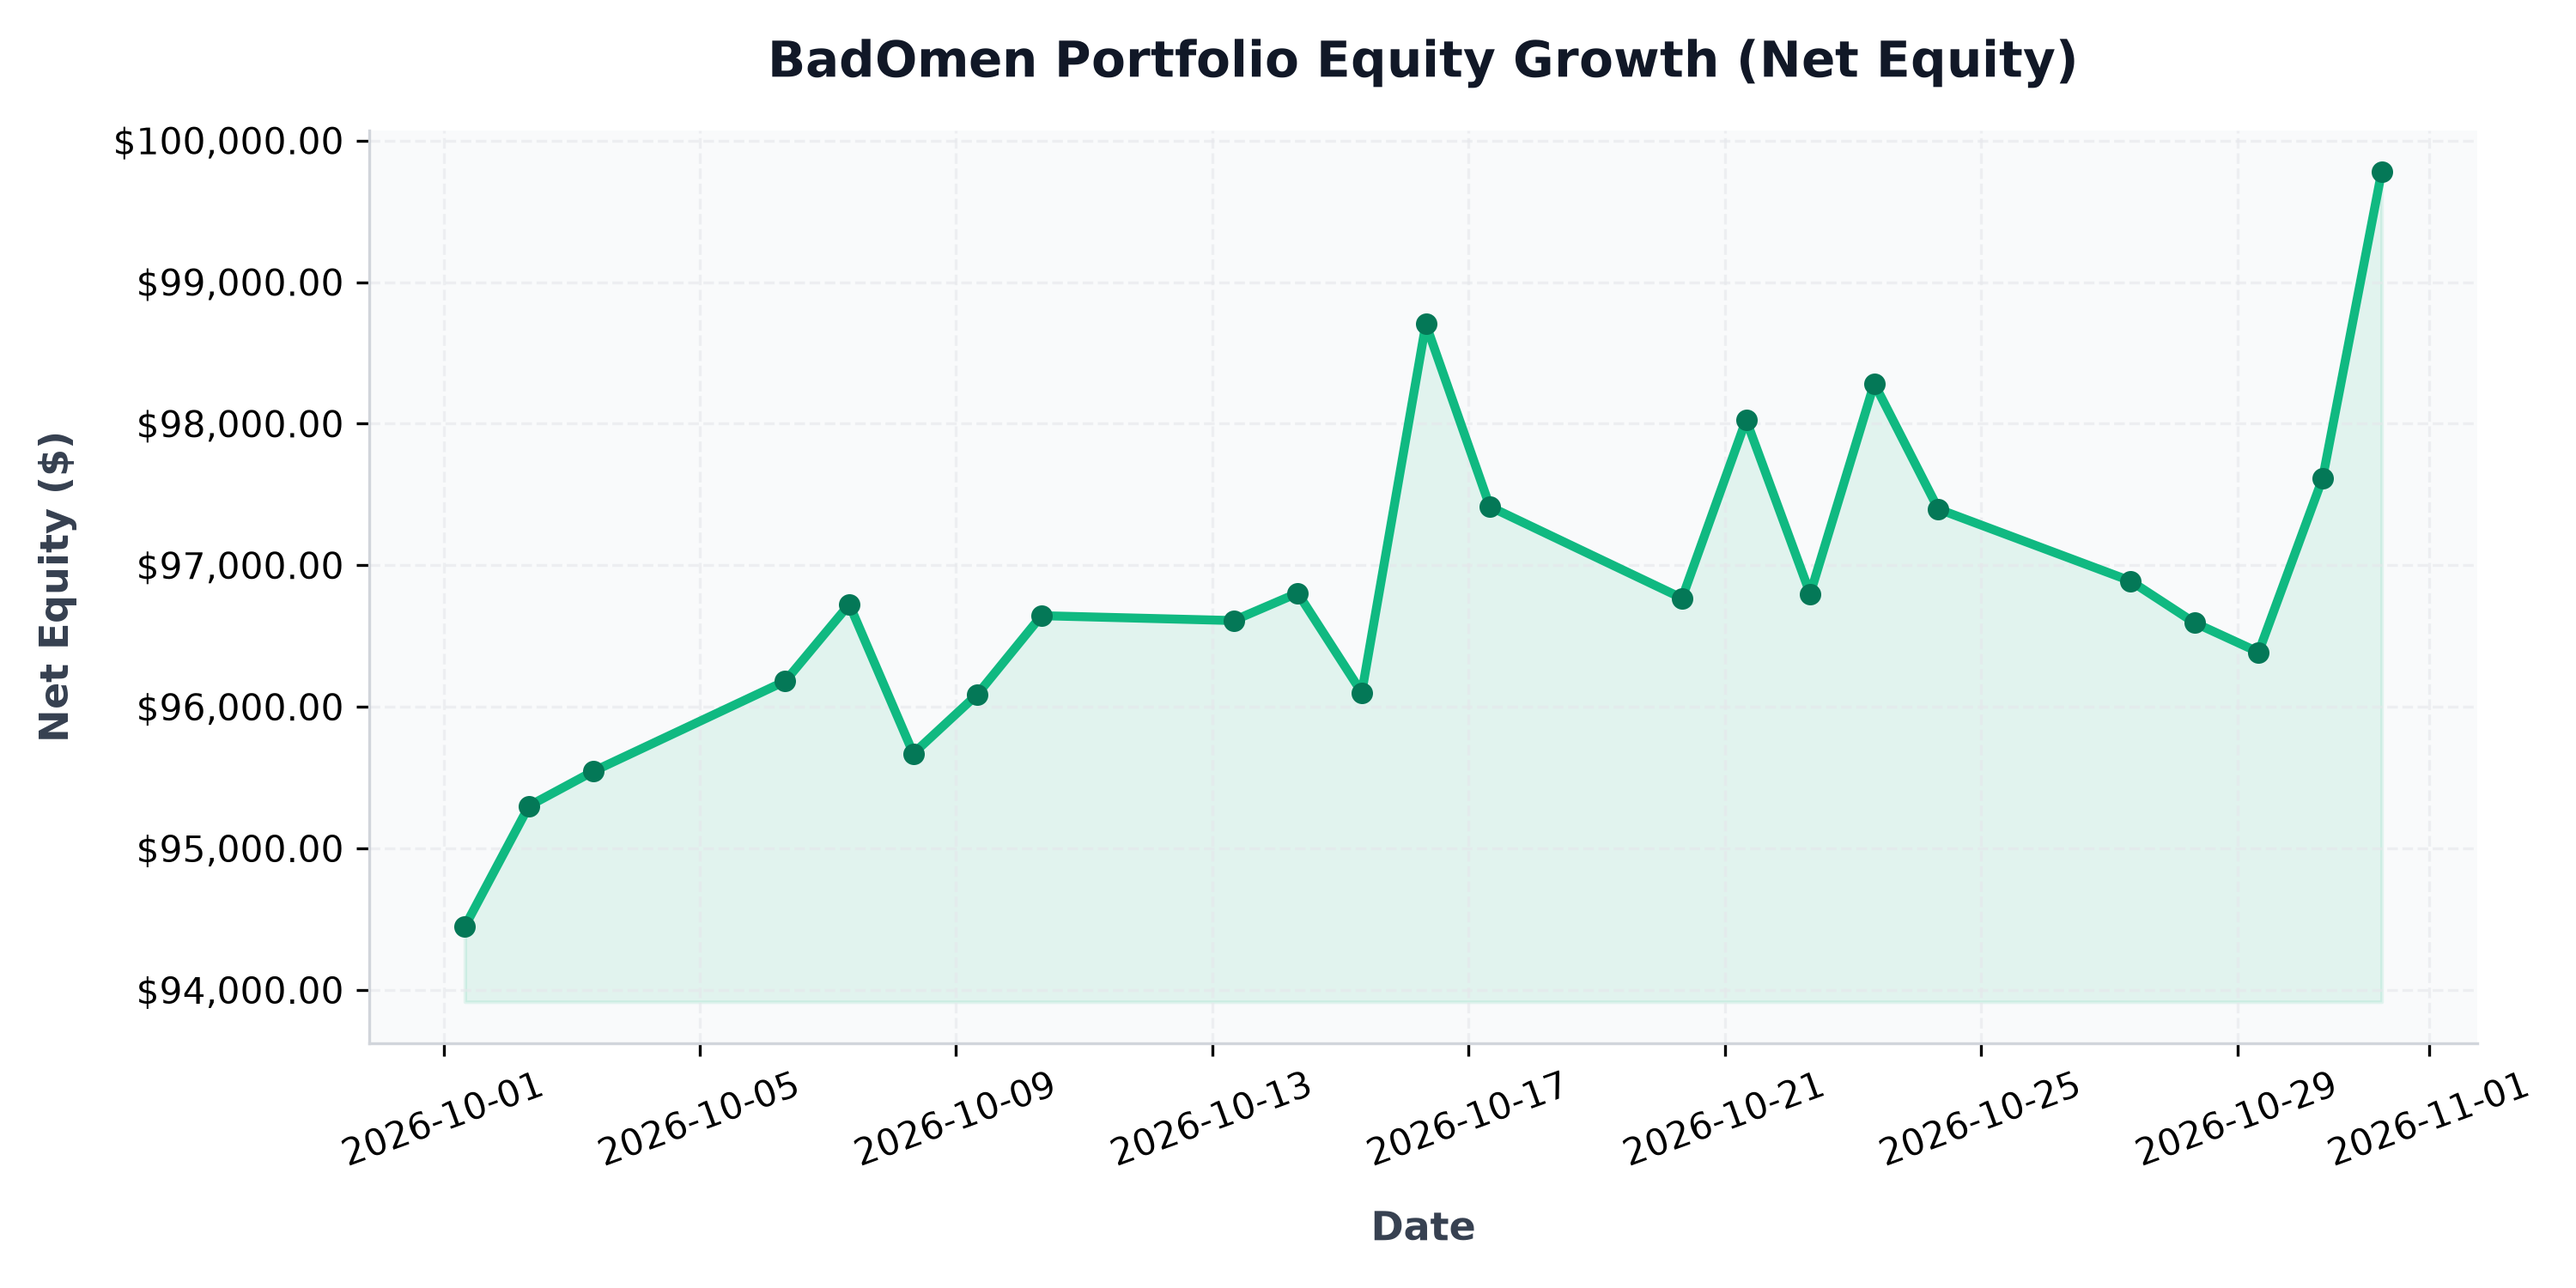
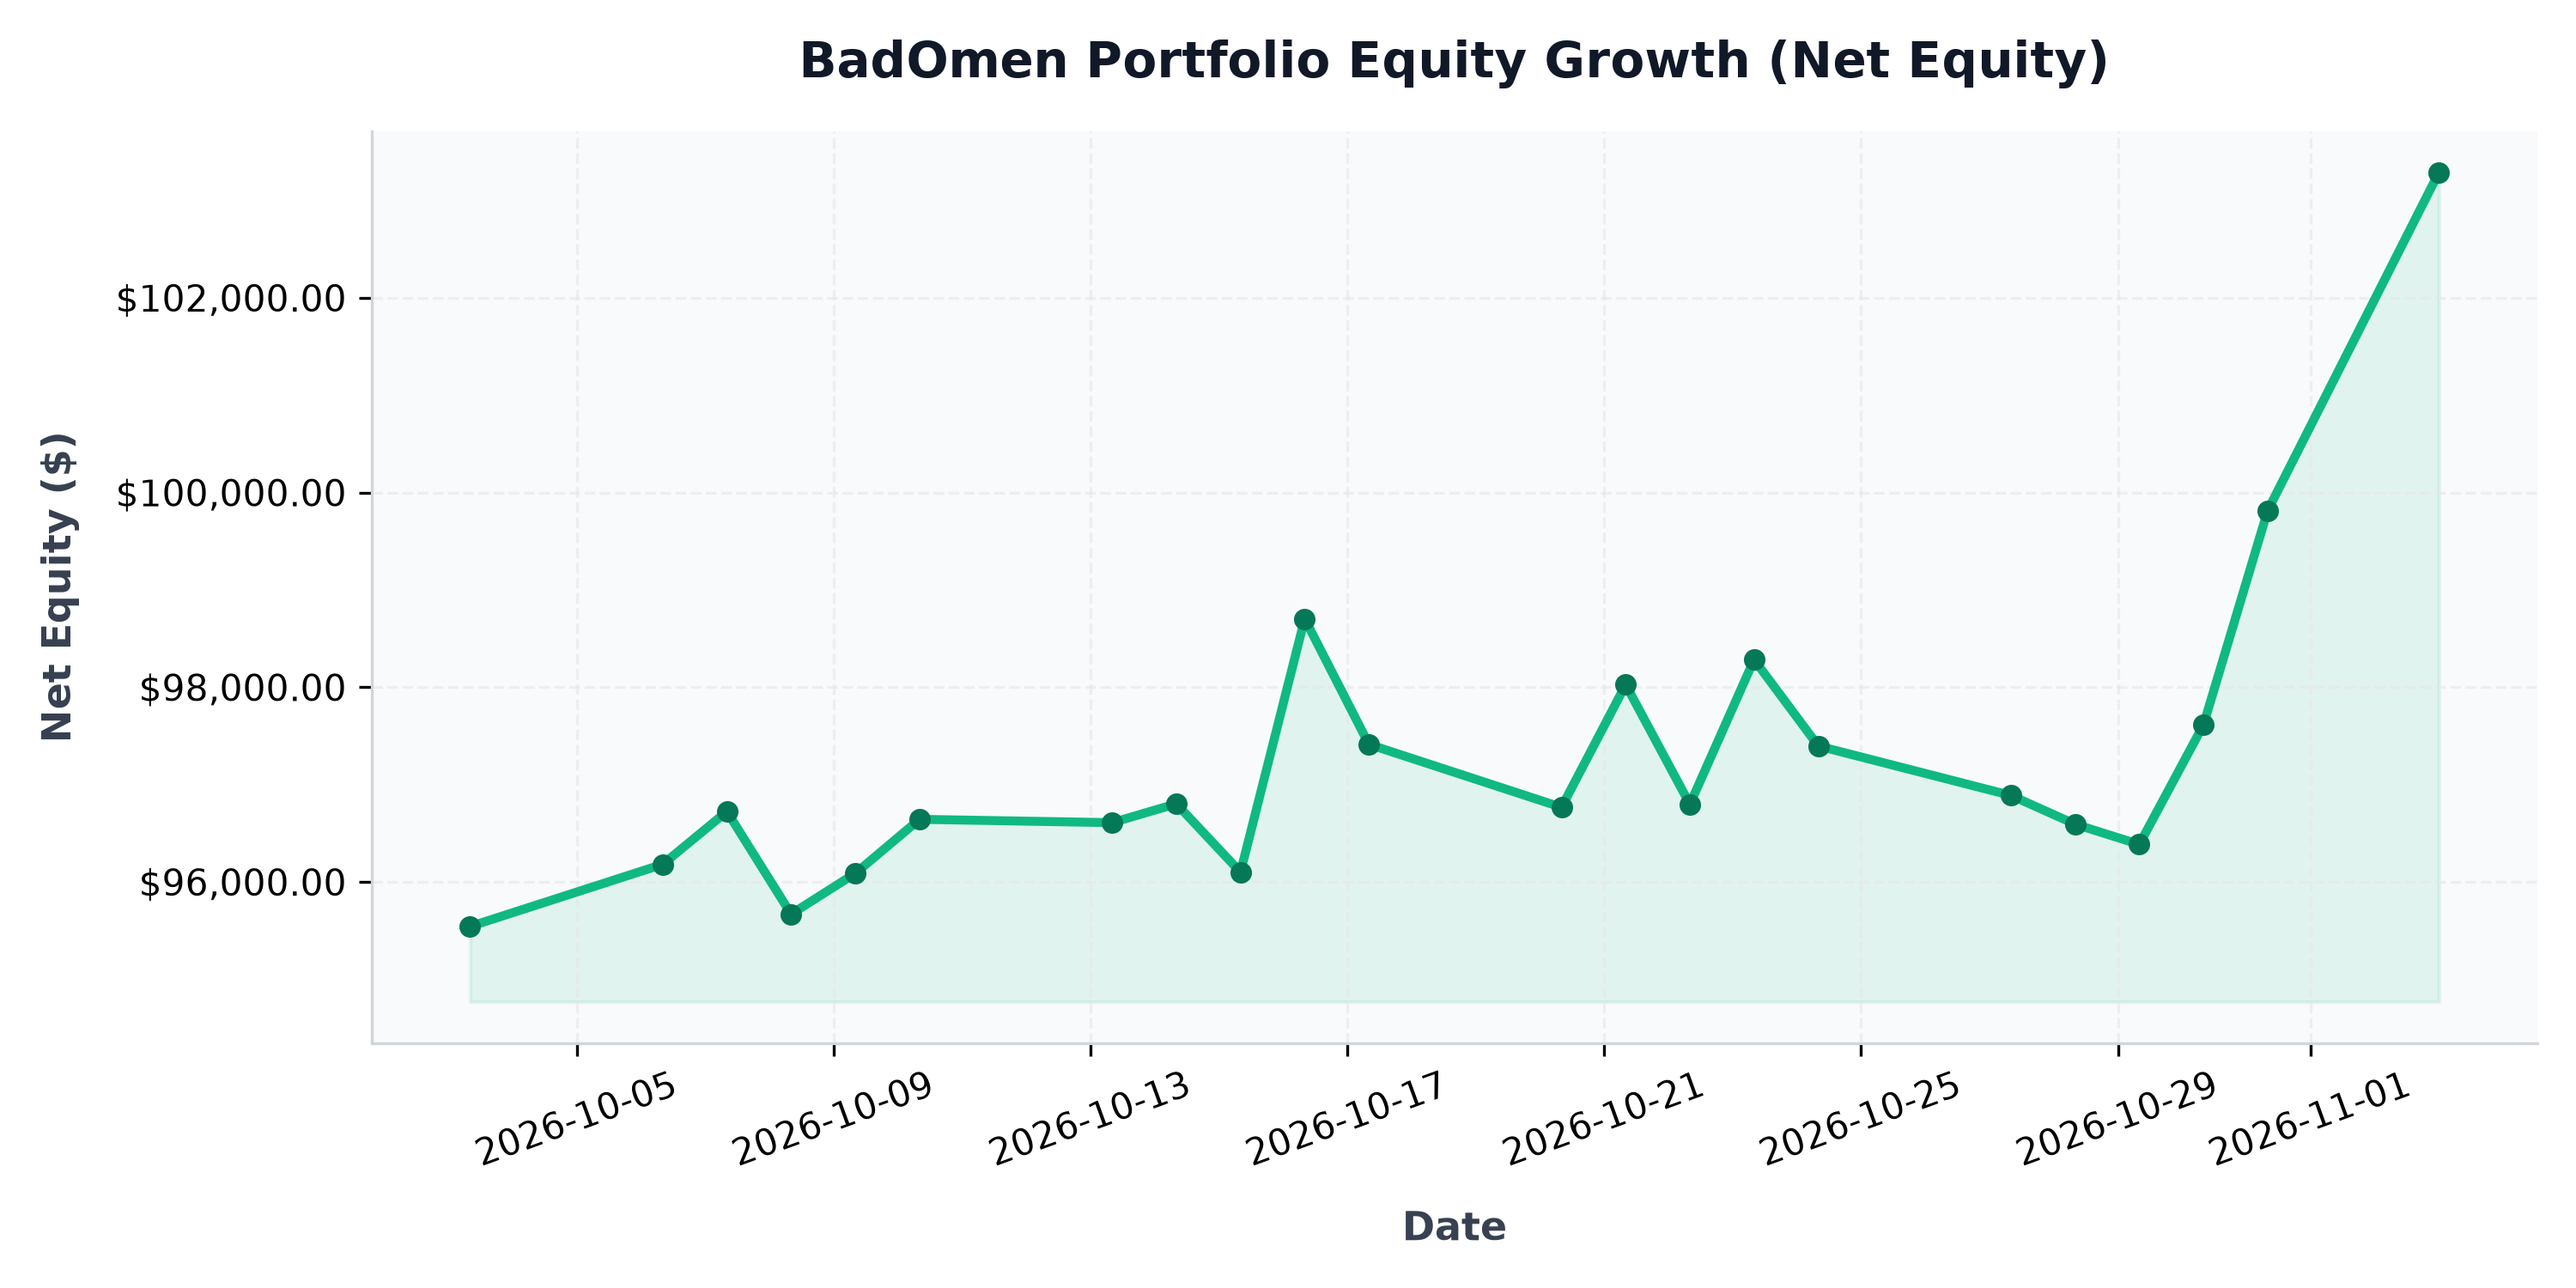
auto: daily portfolio status update - 2026-11-03 00:00:13

diff --git a/src/content/posts/portfolio-performance.md b/src/content/posts/portfolio-performance.md
@@ -1,6 +1,6 @@
 ---
 title: "BadOmen Algorithmic Portfolio Performance & PnL Report"
-pubDatetime: 2026-10-31T06:05:13.361802+08:00
+pubDatetime: 2026-11-03T00:00:13.033720+08:00
 description: "Live performance metrics, active holdings, and historic equity curve for the BadOmen automated paper trading portfolio."
 featured: true
 draft: false
@@ -16,11 +16,11 @@ Welcome to the live performance dashboard for **BadOmen**, our automated algorit
 ## 📊 Portfolio Summary
 | Performance Metric | Value | description |
 | :--- | :--- | :--- |
-| **Net Portfolio Equity** | **$99,778.45** | Total current liquidation value of cash and stock holdings |
-| **Total Unrealized P&L** | 🔴 **$-1,318.28** (-1.30%) | Total return of current open holdings |
+| **Net Portfolio Equity** | **$103,288.17** | Total current liquidation value of cash and stock holdings |
+| **Total Unrealized P&L** | 🟢 **+$2,192.08** (+2.17%) | Total return of current open holdings |
 | **Cash Balance** | $24,269.00 | Idle reserve currency available for limit orders |
-| **Buying Power** | $308,502.46 | Margin-backed buying power for entry allocations |
-| **Report Updated** | `2026-10-31 06:05:13 (SGT)` | Timestamp of daily execution and sync run |
+| **Buying Power** | $318,329.67 | Margin-backed buying power for entry allocations |
+| **Report Updated** | `2026-11-03 00:00:13 (SGT)` | Timestamp of daily execution and sync run |
 
 ## 📈 Net Equity Growth Curve
 The chart below illustrates the historical performance of the account starting from our baseline capital funding of $100,000.00.
@@ -35,35 +35,35 @@ The chart below illustrates the exposure of our currently held active positions 
 ## 💼 Current Position Holdings
 | Ticker | Industry | Shares Owned | Average Entry Cost | Current Price | Unrealized P&L | Return (%) |
 | :--- | :--- | :--- | :--- | :--- | :--- | :--- |
-| **AN** | Auto & Truck Dealerships | 5 | $188.51 | $179.00 | 🔴 $-47.54 | -5.04% |
-| **AVGO** | Semiconductors | 1 | $385.71 | $327.20 | 🔴 $-58.51 | -15.17% |
-| **BIRK** | Footwear & Accessories | 407 | $37.32 | $33.73 | 🔴 $-1,459.75 | -9.61% |
-| **BLBD** | Farm & Heavy Construction Machinery | 231 | $65.52 | $55.90 | 🔴 $-2,221.29 | -14.68% |
-| **BVN** | Other Precious Metals & Mining | 32 | $31.88 | $26.55 | 🔴 $-170.40 | -16.71% |
-| **CELH** | Beverages - Non-Alcoholic | 33 | $29.71 | $29.06 | 🔴 $-21.54 | -2.20% |
-| **CPRI** | Luxury Goods | 1042 | $14.55 | $18.55 | 🟢 +$4,166.12 | +27.48% |
-| **DUOL** | Software - Application | 14 | $131.04 | $131.50 | 🟢 +$6.38 | +0.35% |
-| **FIS** | Information Technology Services | 23 | $41.79 | $38.55 | 🔴 $-74.52 | -7.75% |
-| **GDDY** | Software - Infrastructure | 6 | $76.21 | $117.24 | 🟢 +$246.18 | +53.84% |
-| **GDS** | Information Technology Services | 30 | $32.77 | $21.91 | 🔴 $-325.80 | -33.14% |
-| **GGAL** | Banks - Regional | 17 | $56.04 | $32.30 | 🔴 $-403.57 | -42.36% |
-| **GOOGL** | Internet Content & Information | 3 | $319.44 | $281.37 | 🔴 $-114.21 | -11.92% |
-| **GPI** | Auto & Truck Dealerships | 3 | $316.15 | $260.80 | 🔴 $-166.05 | -17.51% |
-| **HUBS** | Software - Application | 8 | $221.18 | $234.71 | 🟢 +$108.23 | +6.12% |
-| **ITRI** | Scientific & Technical Instruments | 12 | $81.80 | $95.82 | 🟢 +$168.24 | +17.14% |
-| **KBR** | Engineering & Construction | 27 | $36.23 | $38.20 | 🟢 +$53.11 | +5.43% |
-| **NESR** | Oil & Gas Equipment & Services | 34 | $28.74 | $21.30 | 🔴 $-252.96 | -25.89% |
-| **NU** | Banks - Regional | 57 | $11.60 | $11.63 | 🟢 +$1.79 | +0.27% |
-| **ON** | Semiconductors | 10 | $90.45 | $71.50 | 🔴 $-189.55 | -20.95% |
-| **ORCL** | Software - Infrastructure | 5 | $181.95 | $130.53 | 🔴 $-257.10 | -28.26% |
+| **AN** | Auto & Truck Dealerships | 5 | $188.51 | $181.51 | 🔴 $-34.99 | -3.71% |
+| **AVGO** | Semiconductors | 1 | $385.71 | $331.58 | 🔴 $-54.12 | -14.03% |
+| **BIRK** | Footwear & Accessories | 407 | $37.32 | $35.47 | 🔴 $-752.02 | -4.95% |
+| **BLBD** | Farm & Heavy Construction Machinery | 231 | $65.52 | $58.73 | 🔴 $-1,567.56 | -10.36% |
+| **BVN** | Other Precious Metals & Mining | 32 | $31.88 | $26.81 | 🔴 $-162.07 | -15.89% |
+| **CELH** | Beverages - Non-Alcoholic | 33 | $29.71 | $29.99 | 🟢 +$9.15 | +0.93% |
+| **CPRI** | Luxury Goods | 1042 | $14.55 | $20.21 | 🟢 +$5,901.05 | +38.92% |
+| **DUOL** | Software - Application | 14 | $131.04 | $137.91 | 🟢 +$96.19 | +5.24% |
+| **FIS** | Information Technology Services | 23 | $41.79 | $39.24 | 🔴 $-58.53 | -6.09% |
+| **GDDY** | Software - Infrastructure | 6 | $76.21 | $119.65 | 🟢 +$260.64 | +57.00% |
+| **GDS** | Information Technology Services | 30 | $32.77 | $22.42 | 🔴 $-310.50 | -31.58% |
+| **GGAL** | Banks - Regional | 17 | $56.04 | $32.29 | 🔴 $-403.74 | -42.38% |
+| **GOOGL** | Internet Content & Information | 3 | $319.44 | $283.90 | 🔴 $-106.62 | -11.13% |
+| **GPI** | Auto & Truck Dealerships | 3 | $316.15 | $267.28 | 🔴 $-146.61 | -15.46% |
+| **HUBS** | Software - Application | 8 | $221.18 | $235.28 | 🟢 +$112.81 | +6.38% |
+| **ITRI** | Scientific & Technical Instruments | 12 | $81.80 | $99.33 | 🟢 +$210.30 | +21.42% |
+| **KBR** | Engineering & Construction | 27 | $36.23 | $38.89 | 🟢 +$71.74 | +7.33% |
+| **NESR** | Oil & Gas Equipment & Services | 34 | $28.74 | $21.68 | 🔴 $-240.04 | -24.57% |
+| **NU** | Banks - Regional | 57 | $11.60 | $12.03 | 🟢 +$24.31 | +3.68% |
+| **ON** | Semiconductors | 10 | $90.45 | $73.55 | 🔴 $-169.05 | -18.69% |
+| **ORCL** | Software - Infrastructure | 5 | $181.95 | $123.13 | 🔴 $-294.10 | -32.33% |
 | **PATH** | Software - Infrastructure | 38 | $10.25 | $13.66 | 🟢 +$129.58 | +33.27% |
-| **PYPL** | Credit Services | 17 | $56.05 | $56.85 | 🟢 +$13.59 | +1.43% |
-| **QCOM** | Semiconductors | 15 | $193.68 | $165.40 | 🔴 $-424.27 | -14.60% |
-| **SMCI** | Computer Hardware | 22 | $29.25 | $32.89 | 🟢 +$79.98 | +12.43% |
-| **SRE** | Utilities - Diversified | 57 | $84.75 | $86.06 | 🟢 +$74.53 | +1.54% |
-| **T** | Telecom Services | 47 | $20.85 | $21.45 | 🟢 +$28.20 | +2.88% |
-| **WEN** | Restaurants | 257 | $8.02 | $7.20 | 🔴 $-211.70 | -10.27% |
-| **ZG** | Internet Content & Information | 31 | $31.35 | $31.50 | 🟢 +$4.55 | +0.47% |
+| **PYPL** | Credit Services | 17 | $56.05 | $58.76 | 🟢 +$45.98 | +4.83% |
+| **QCOM** | Semiconductors | 15 | $193.68 | $167.16 | 🔴 $-397.87 | -13.69% |
+| **SMCI** | Computer Hardware | 22 | $29.25 | $32.53 | 🟢 +$72.16 | +11.21% |
+| **SRE** | Utilities - Diversified | 57 | $84.75 | $85.25 | 🟢 +$28.36 | +0.59% |
+| **T** | Telecom Services | 47 | $20.85 | $21.50 | 🟢 +$30.79 | +3.14% |
+| **WEN** | Restaurants | 257 | $8.02 | $7.32 | 🔴 $-180.86 | -8.77% |
+| **ZG** | Internet Content & Information | 31 | $31.35 | $33.86 | 🟢 +$77.71 | +7.99% |
 
 ## 🔴 Recent Realized Trades
 | Ticker | Shares Sold | Entry Price | Exit Price | Strategy Trigger | Realized Return | Exit Date |
